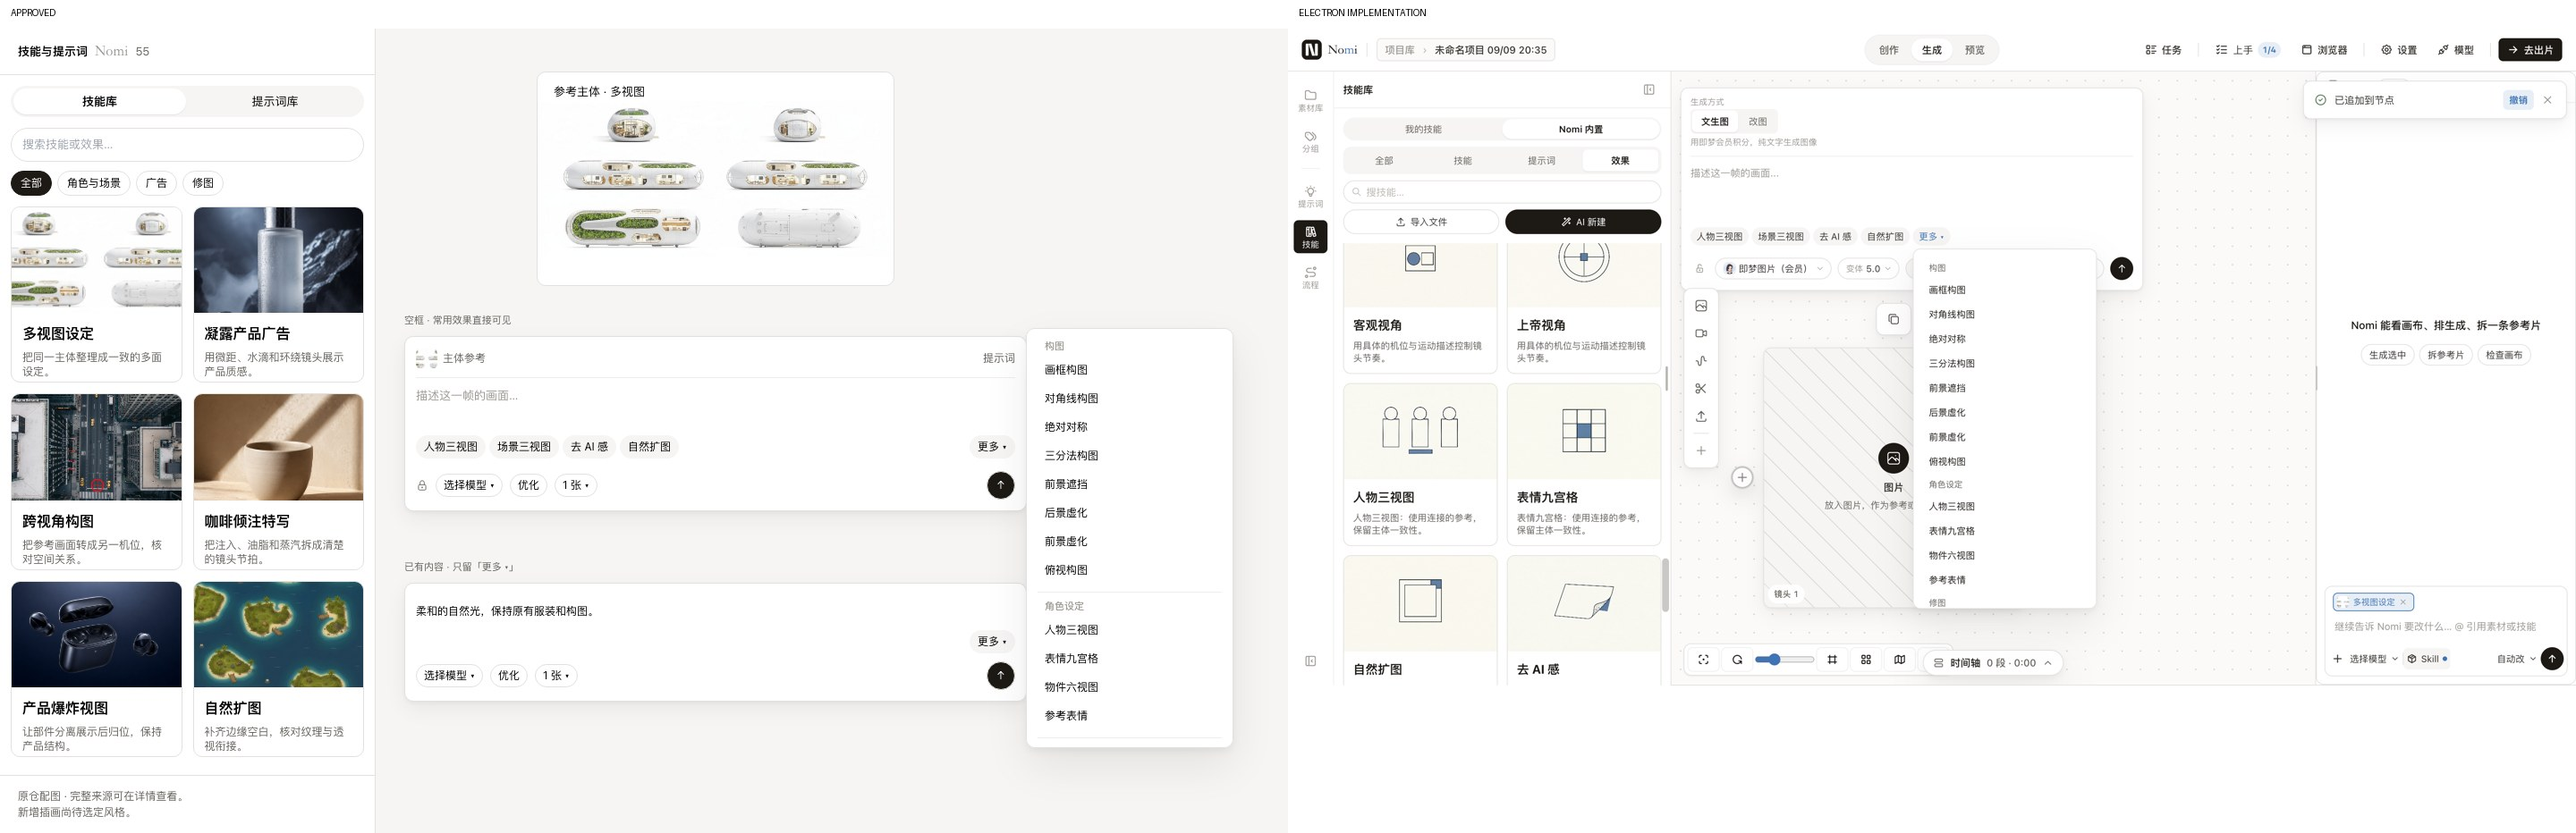
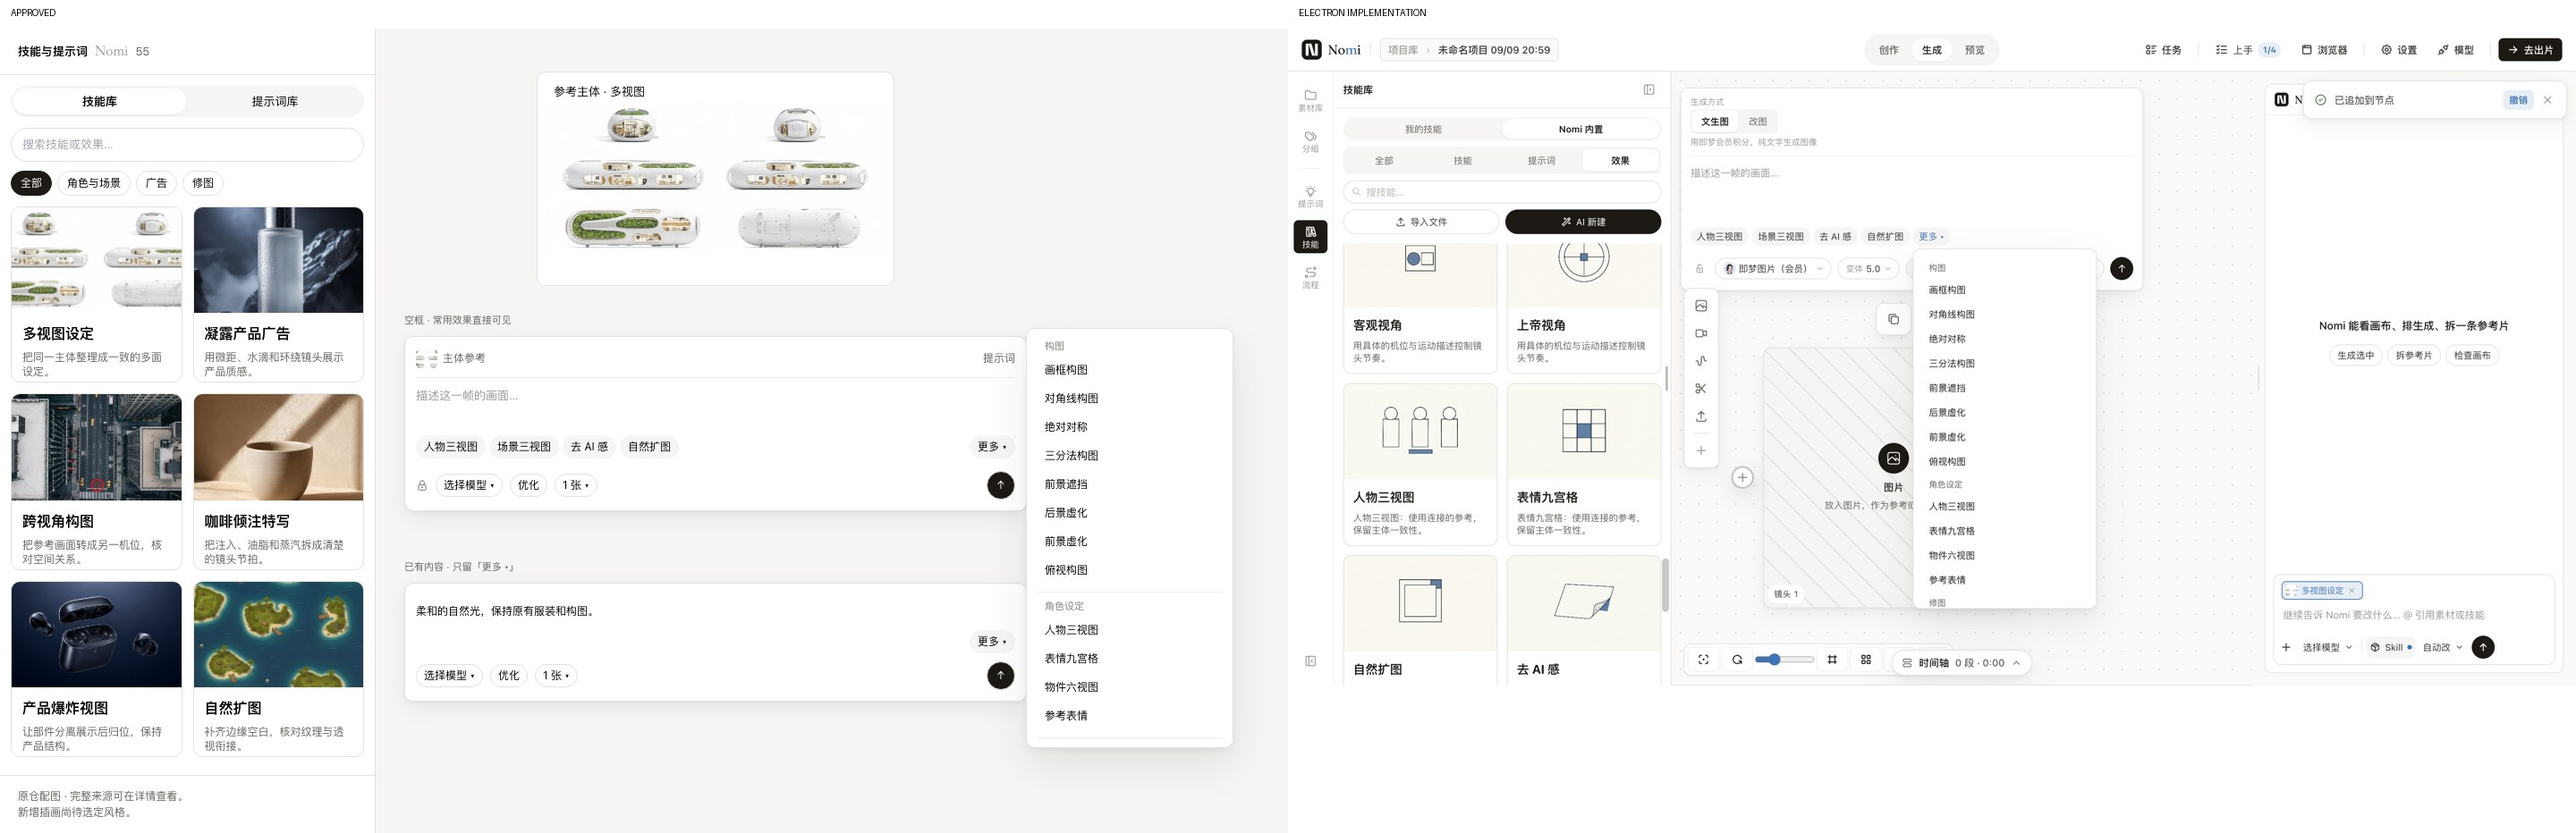
docs(skills): capture gallery journeys with merged agent panel form

diff --git a/docs/design/verification/2026-09-09-skill-library/README.md b/docs/design/verification/2026-09-09-skill-library/README.md
@@ -38,3 +38,5 @@
 旧路径清理后的最终 build 与 Electron 全流程再次 exit 0，六张真机图为该次结果。
 
 通知策略基线 d3fa258883c6（#679）合并后，build 和 Electron 全流程再次 exit 0；合并同时保留 inline feedback 接口与节点效果撤销，图为最新合并树。第四轮完整测试曾有一条未改动的协调器测试超时，独立复跑83条通过；未改超时或跳过，完整 gates 继续重跑。
+
+面板外形基线 ad95ab47e（#683）合并后，保留 V4Row 新外壳与本任务真实分面状态。build、Electron 三条任务再次 exit 0，六张真机图与并排图为此合并树结果。
